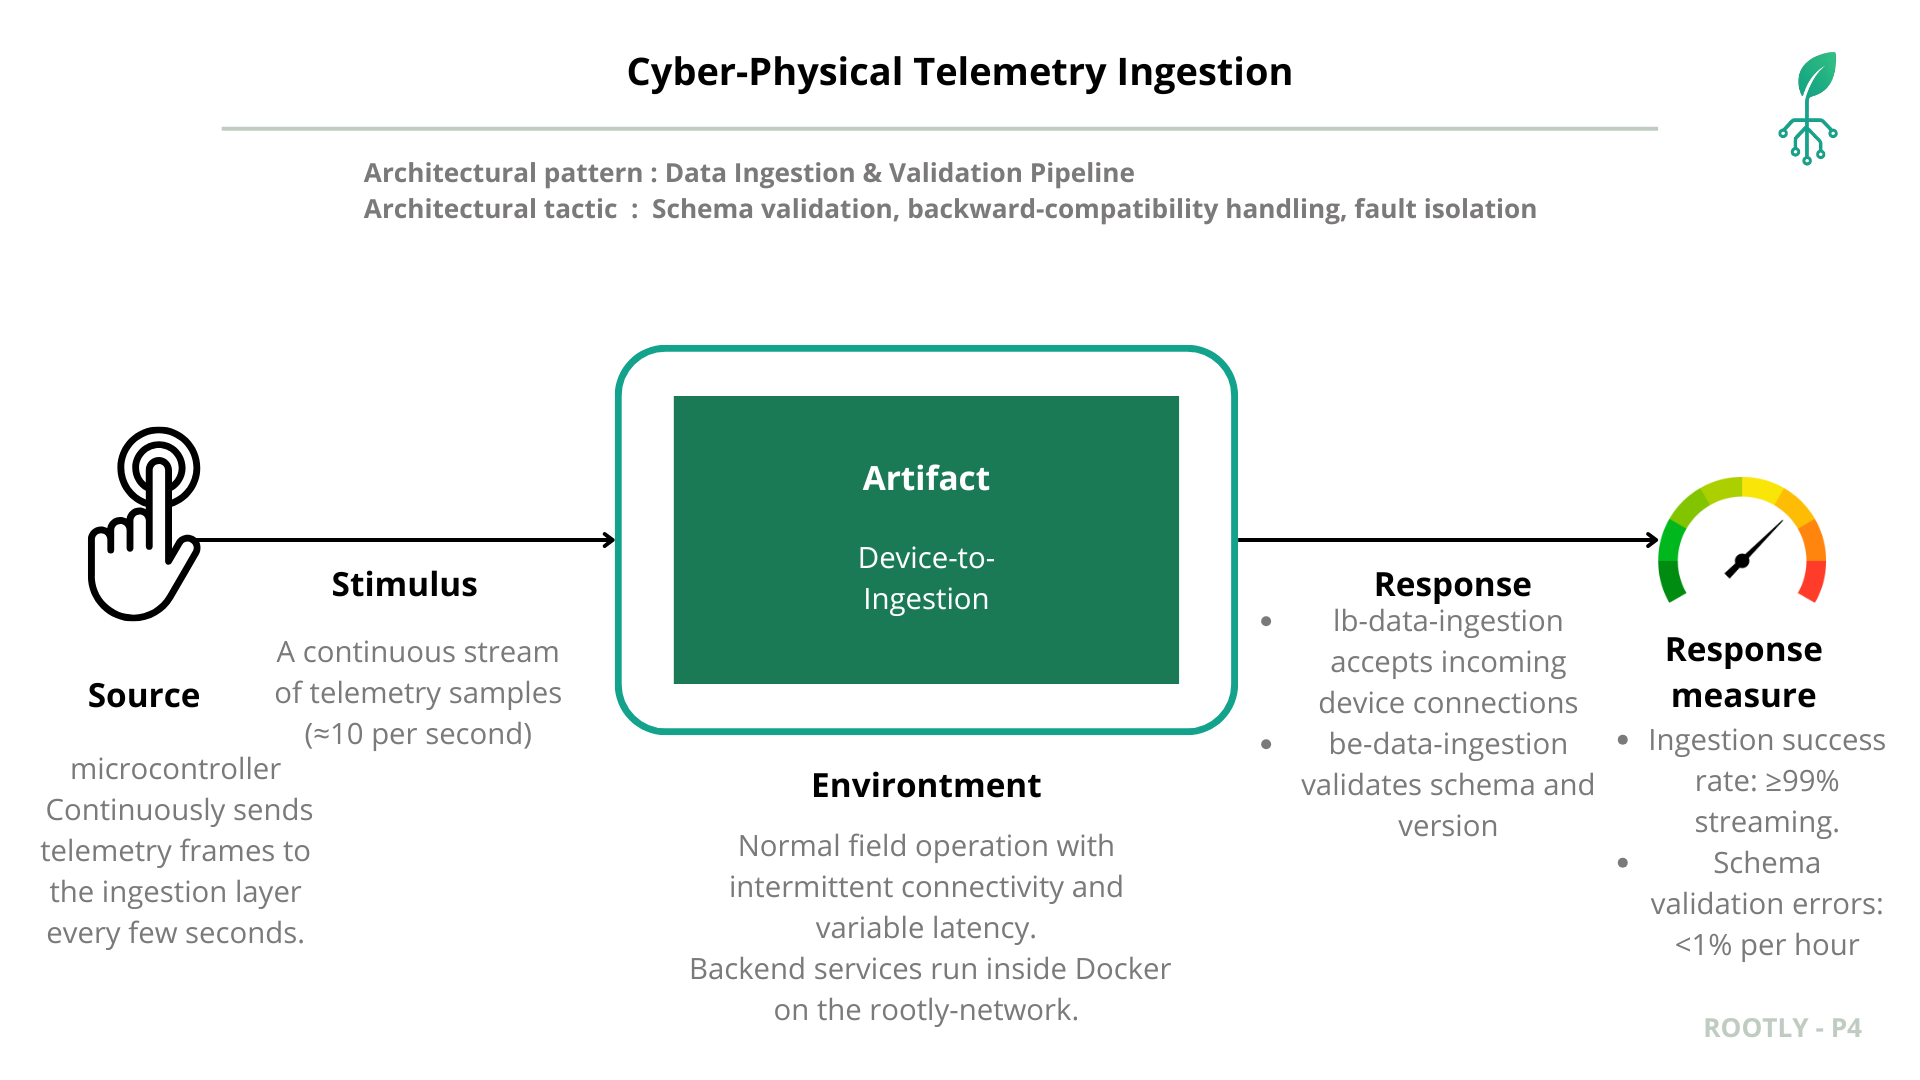
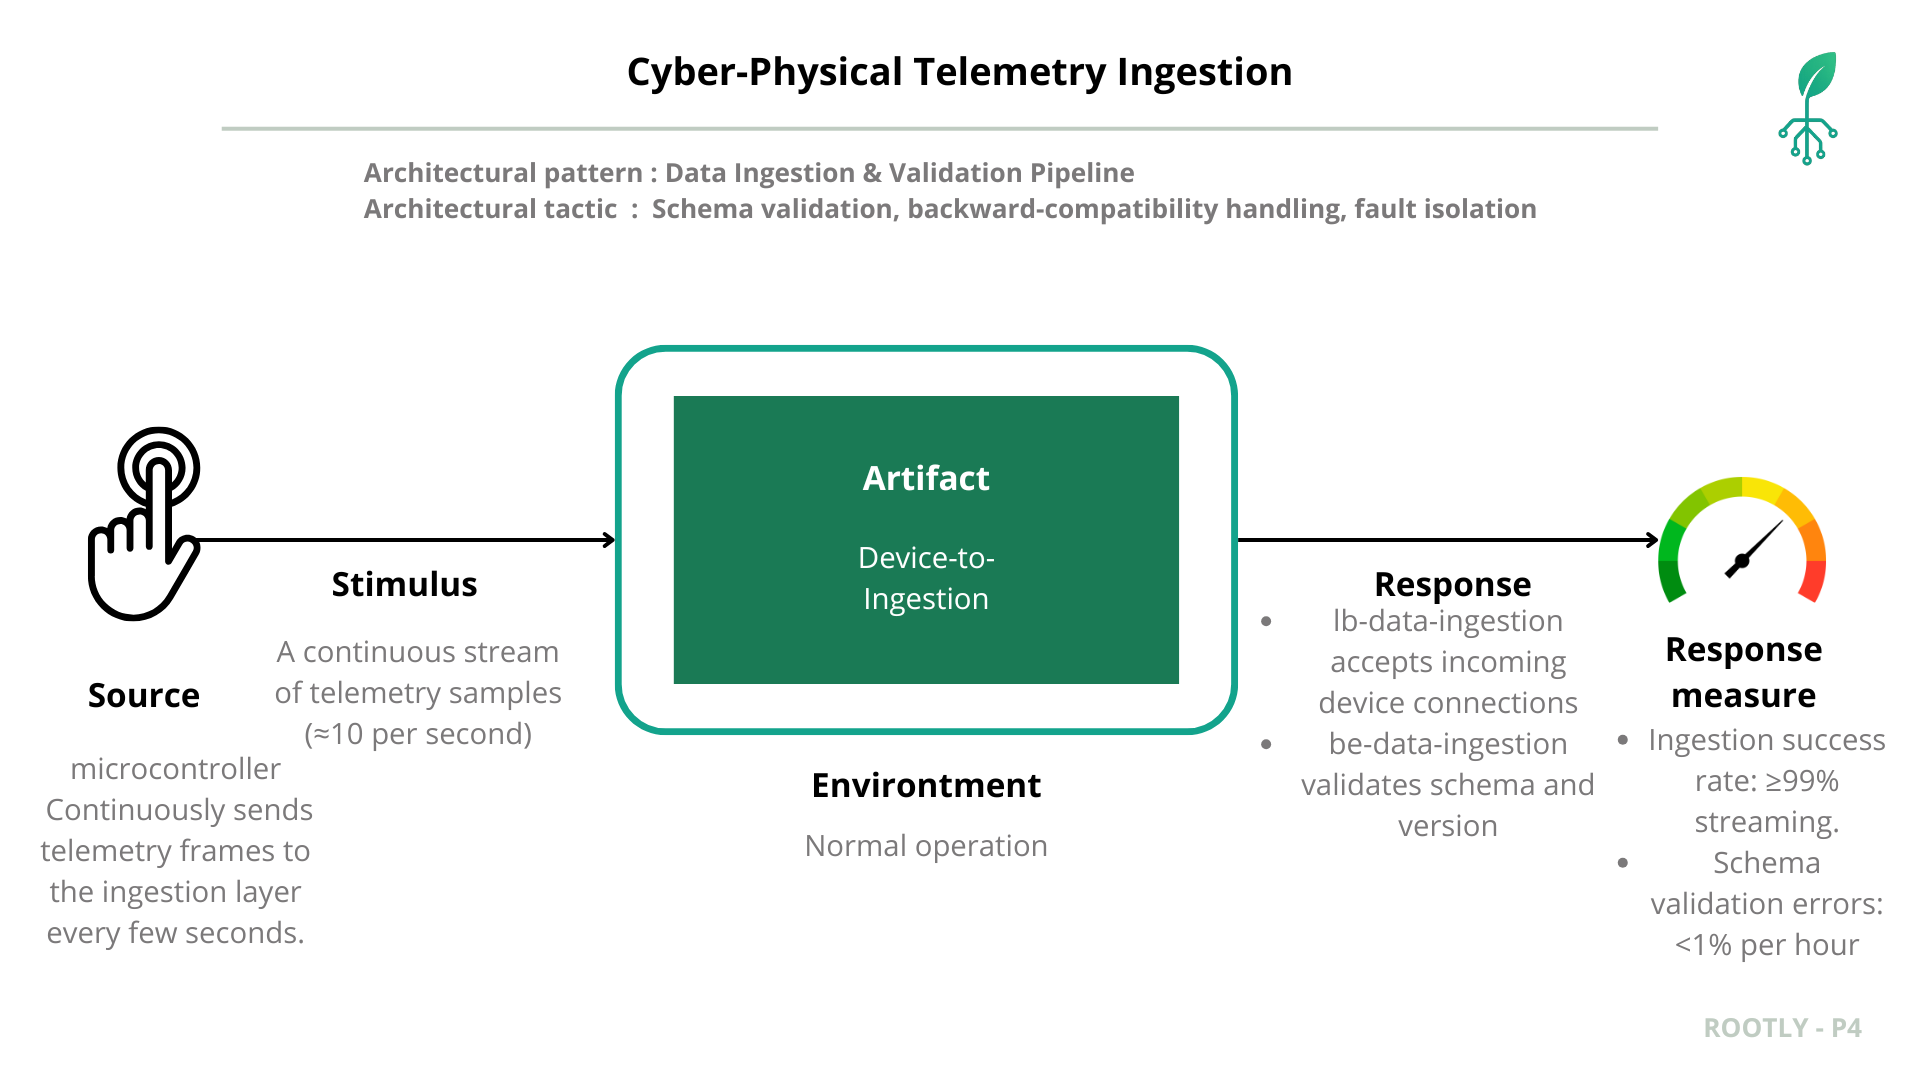
Updated interoperability scenery

Changed region(s): [[0.3438, 0.7639, 0.625, 0.9472]]

diff --git a/Prototype_4/README.md b/Prototype_4/README.md
@@ -609,11 +609,14 @@ By tying Service Discovery to Docker log observability, the team gains immediate
 
 ### Cyber-Physical Telemetry Ingestion
 
-The system must interoperate reliably with a cyber-physical component: a microcontroller that continuously streams sensor data to `lb-data-ingestion` and onward to `be-data-ingestion`.
+**Pattern – Data Ingestion and Validation Pipeline:** Telemetry arrives through `lb-data-ingestion`, is validated/normalized in `be-data-ingestion`, and is queued to `queue-data-ingestion` so downstream processors stay decoupled from field noise, bursts, or schema drift.  
+**Tactics – Schema Validation, Backward-Compatibility Handling, Fault Isolation:** Strict JSON schema checks guard the boundary; firmware version headers plus optional fields preserve backward compatibility; malformed frames are isolated (logged/dropped) so healthy traffic continues without blocking threads or queues.
+
+The system must interoperate reliably with a cyber-physical component: a microcontroller continuously streams sensor data to `lb-data-ingestion`, which forwards to `be-data-ingestion` where validation, normalization, and buffering protect the pipeline.
 
 #### 1. Artifact
 
-**Device-to-Ingestion Contract:** REST/HTTP payload contract between the external microcontroller device and the ingestion layer (`lb-data-ingestion` → `be-data-ingestion`), including JSON schema, version headers, and authentication token.
+**Device-to-Ingestion Contract:** REST/HTTP payload contract between the microcontroller and the ingestion layer (`lb-data-ingestion` → `be-data-ingestion`), including JSON schema, version headers, authentication token, and the validation/queuing steps before reaching `queue-data-ingestion`.
 
 #### 2. Source
 
@@ -621,21 +624,24 @@ The system must interoperate reliably with a cyber-physical component: a microco
 
 #### 3. Stimulus
 
-Continuous telemetry stream (e.g., one sample per second) plus occasional firmware updates that may introduce new optional fields while keeping backward compatibility.
+Continuous telemetry stream (e.g., one sample per second) plus occasional firmware updates introducing new optional fields. Some frames may arrive late, duplicated, or with minor shape differences from older firmware.
 
 #### 4. Environment
 
-Normal field operation with intermittent connectivity, standard network latency, and Dockerized backend running on `rootly-network`.
+Normal field operation with intermittent connectivity, standard network latency, and Dockerized backend on `rootly-network`; ingestion replicas may scale horizontally behind `lb-data-ingestion`.
 
 #### 5. Response
 
 - `lb-data-ingestion` accepts connections and forwards payloads to `be-data-ingestion`.
-- `be-data-ingestion` validates schema/version, rejects malformed frames with clear HTTP errors, and enqueues valid messages to `queue-data-ingestion`.
-- Compatibility rules ensure older firmware payloads remain accepted; new optional fields are ignored or mapped without breaking processing.
+- `be-data-ingestion` performs schema validation/version checks, normalizes units/field names, rejects malformed frames with clear HTTP errors, and enqueues valid messages to `queue-data-ingestion`.
+- Backward compatibility rules keep older firmware payloads accepted; new optional fields are ignored or mapped to defaults while preserving required fields.
+- Fault isolation prevents a bad batch (invalid schema, wrong token) from blocking the pipeline: invalid frames are dropped, logged with device metadata, and do not stall healthy traffic.
+- Queued delivery decouples `ms-data-processing`, so ingestion remains responsive even if downstream consumers slow down.
 
 #### 6. Response Measure
 
 - **Ingestion Success Rate:** ≥99% of valid telemetry frames accepted during steady streaming.
-- **Schema Validation Errors:** <1% per hour for devices on supported firmware.
-- **Queue Lag:** Stable under continuous streaming (<1s added latency from `be-data-ingestion` to `queue-data-ingestion`).
-- **Error Transparency:** HTTP 4xx/5xx responses logged with device identifier for rapid troubleshooting when interoperability breaks.
+- **Schema Validation Errors:** <1% per hour for devices on supported firmware; spikes trigger alerting.
+- **Queue Lag:** Stable under continuous streaming (<1s added latency from `be-data-ingestion` to `queue-data-ingestion`), even when `ms-data-processing` is throttled.
+- **Fault Isolation Effectiveness:** No ingestion outage when a subset of devices sends malformed payloads (measured by continued acceptance of well-formed frames).
+- **Error Transparency:** HTTP 4xx/5xx responses and validation failures logged with device identifier and firmware version for rapid troubleshooting when interoperability breaks.
